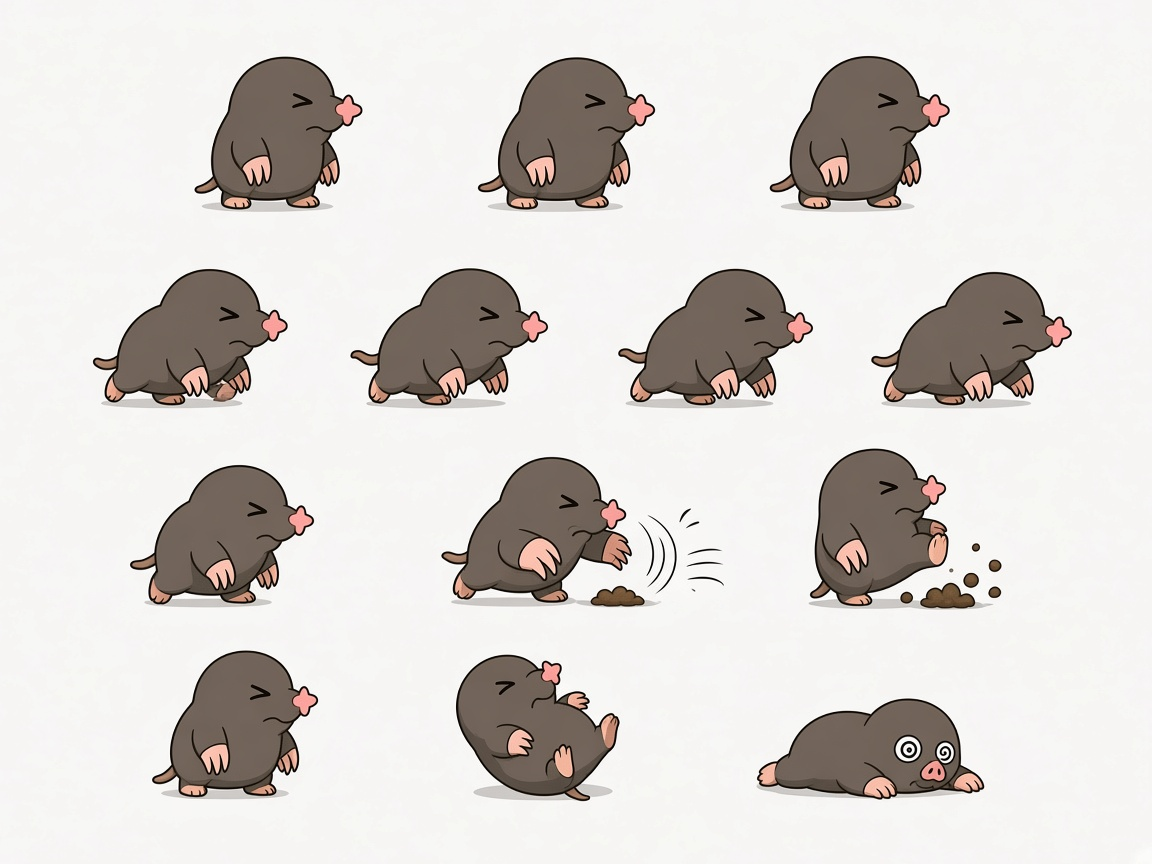
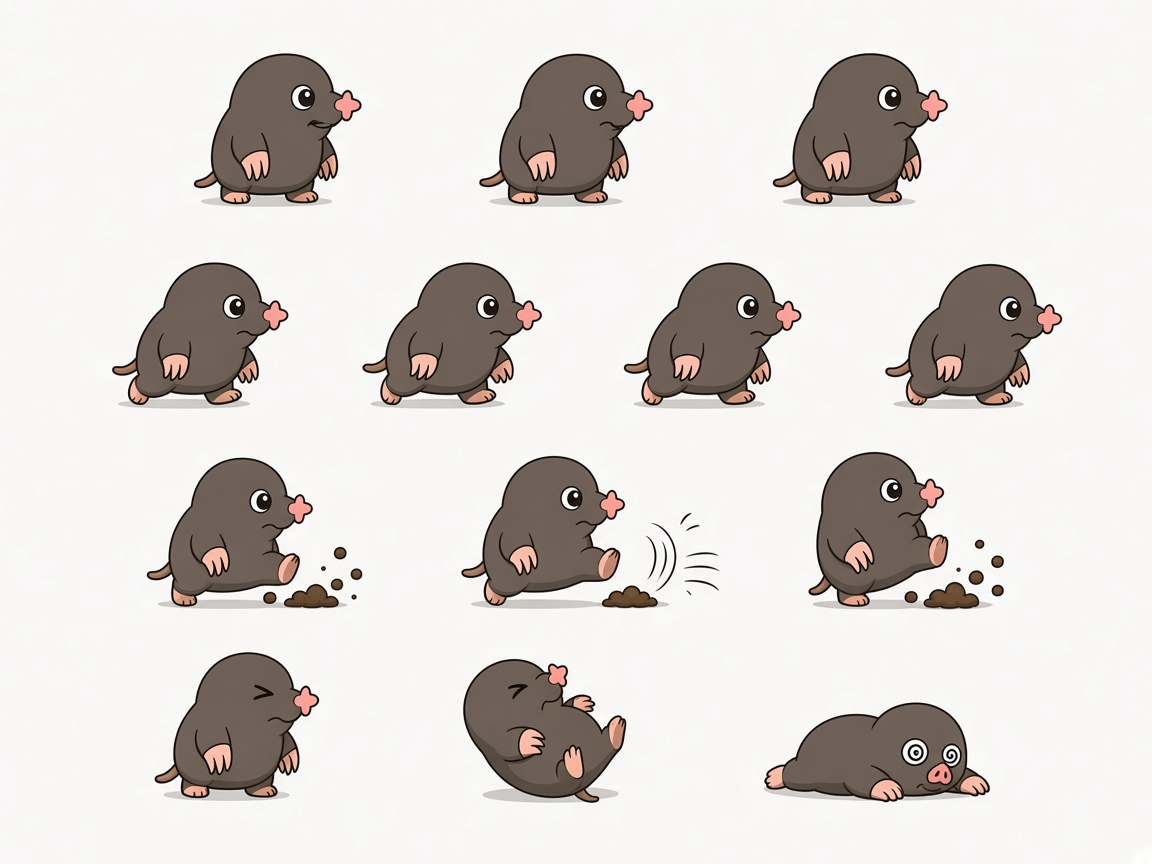
Fix flagged chibi sheets

diff --git a/planning/art-plan.md b/planning/art-plan.md
@@ -57,20 +57,20 @@ Paths are under `art-direction/chibi/`. **Approved** means Oded signed off. **Ne
 | Wool-Shoulder | `mobs/wool-shoulder.jpg` | Approved |
 | Crow | `mobs/crow.jpg` | Approved |
 | Boar | `mobs/boar.jpg` | Approved |
-| Angry Bull | `mobs/angry-bull.jpg` | New (fixed flinch frame, still small) |
-| Burrow Mole | `mobs/burrow-mole.jpg` | New (squints in every frame) |
+| Angry Bull | `mobs/angry-bull.jpg` | New (flaws resolved: full-size frames, mirrored to face right) |
+| Burrow Mole | `mobs/burrow-mole.jpg` | New (flaws resolved: open eyes except hit/die) |
 | Bank-Cracker | `mobs/bank-cracker.jpg` | New |
-| Earth Sprite | `mobs/earth-sprite.jpg` | New (close to front-facing) |
+| Earth Sprite | `mobs/earth-sprite.jpg` | New (flaws resolved: side view facing right) |
 | Ember Beetle | `mobs/ember-beetle.jpg` | New |
 | Cinderback | `mobs/cinderback.jpg` | New |
-| Spark Bug | `mobs/spark-bug.jpg` | New (odd tube in the attack frame) |
+| Spark Bug | `mobs/spark-bug.jpg` | New (flaws resolved: tube removed, clear zap attack) |
 | Wisp | `mobs/wisp.jpg` | New |
 | Thornling | `mobs/thornling.jpg` | New |
 | Moss Lurker | `mobs/moss-lurker.jpg` | New |
-| Mire Toad | `mobs/mire-toad.jpg` | New (idle row has 4 frames) |
+| Mire Toad | `mobs/mire-toad.jpg` | New (flaws resolved: 3 idle frames) |
 | Hollow Stag (miniboss) | `mobs/hollow-stag.jpg` | New |
 | **Mobs (not spawned yet)** | | |
-| Old Stump | `mobs/old-stump.jpg` | New (three-quarter view) |
+| Old Stump | `mobs/old-stump.jpg` | New (near side view, accepted) |
 | Night Stump | `mobs/night-stump.jpg` | New |
 | Frost Moth | `mobs/frost-moth.jpg` | New |
 | Shrine Wisp | `mobs/shrine-wisp.jpg` | New |
@@ -94,7 +94,7 @@ Paths are under `art-direction/chibi/`. **Approved** means Oded signed off. **Ne
 | Stone and earth materials (8) | `items/13-materials-stone-earth.jpg` | New |
 | Hide materials (6) | `items/14-materials-hide.jpg` | New |
 | Elemental materials (10) | `items/15-materials-elemental.jpg` | New |
-| Quest items and curiosities (9) | `items/16-quest-curiosities.jpg` | New (the Smoldering Scale reads as a whole shell) |
+| Quest items and curiosities (9) | `items/16-quest-curiosities.jpg` | New (flaws resolved: single glowing scale; Warm Grain is a glowing pouch) |
 | Junk (8) | `items/17-junk.jpg` | New |
 | Rare junk (10) | `items/18-rare-junk.jpg` | New |
 
